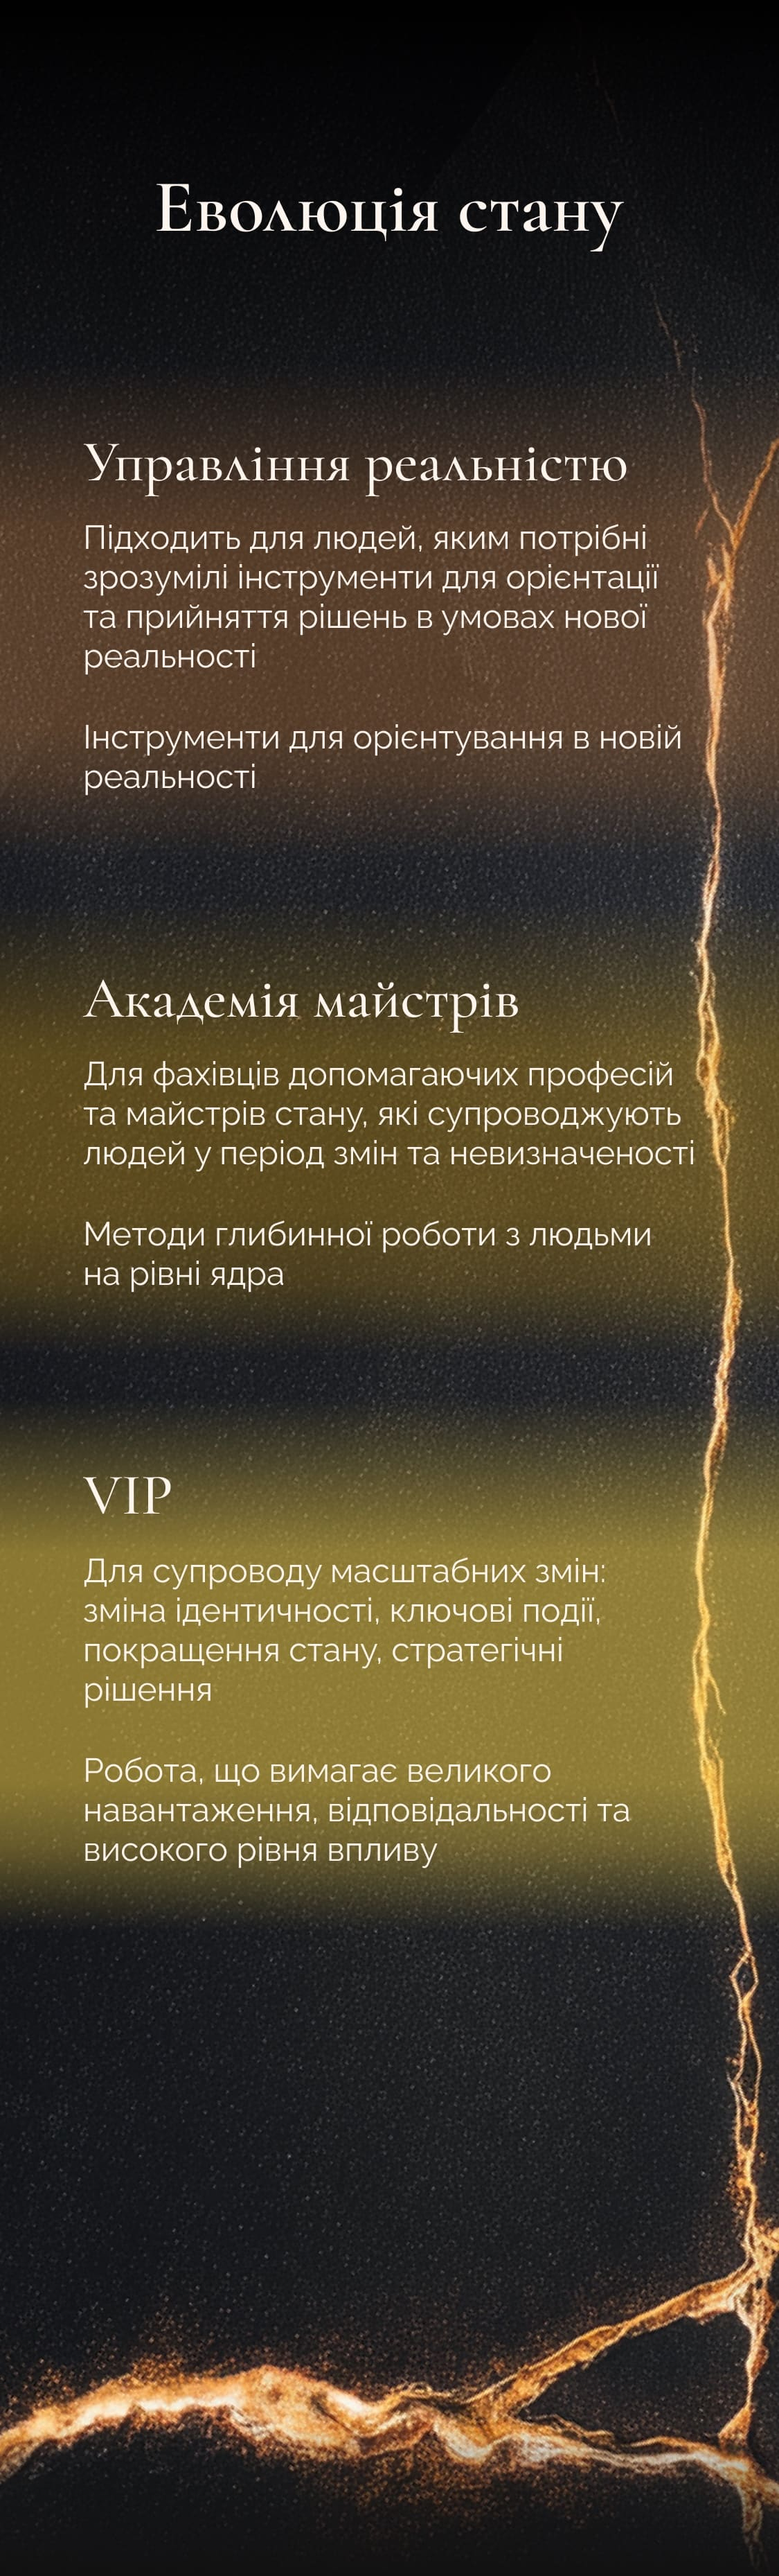
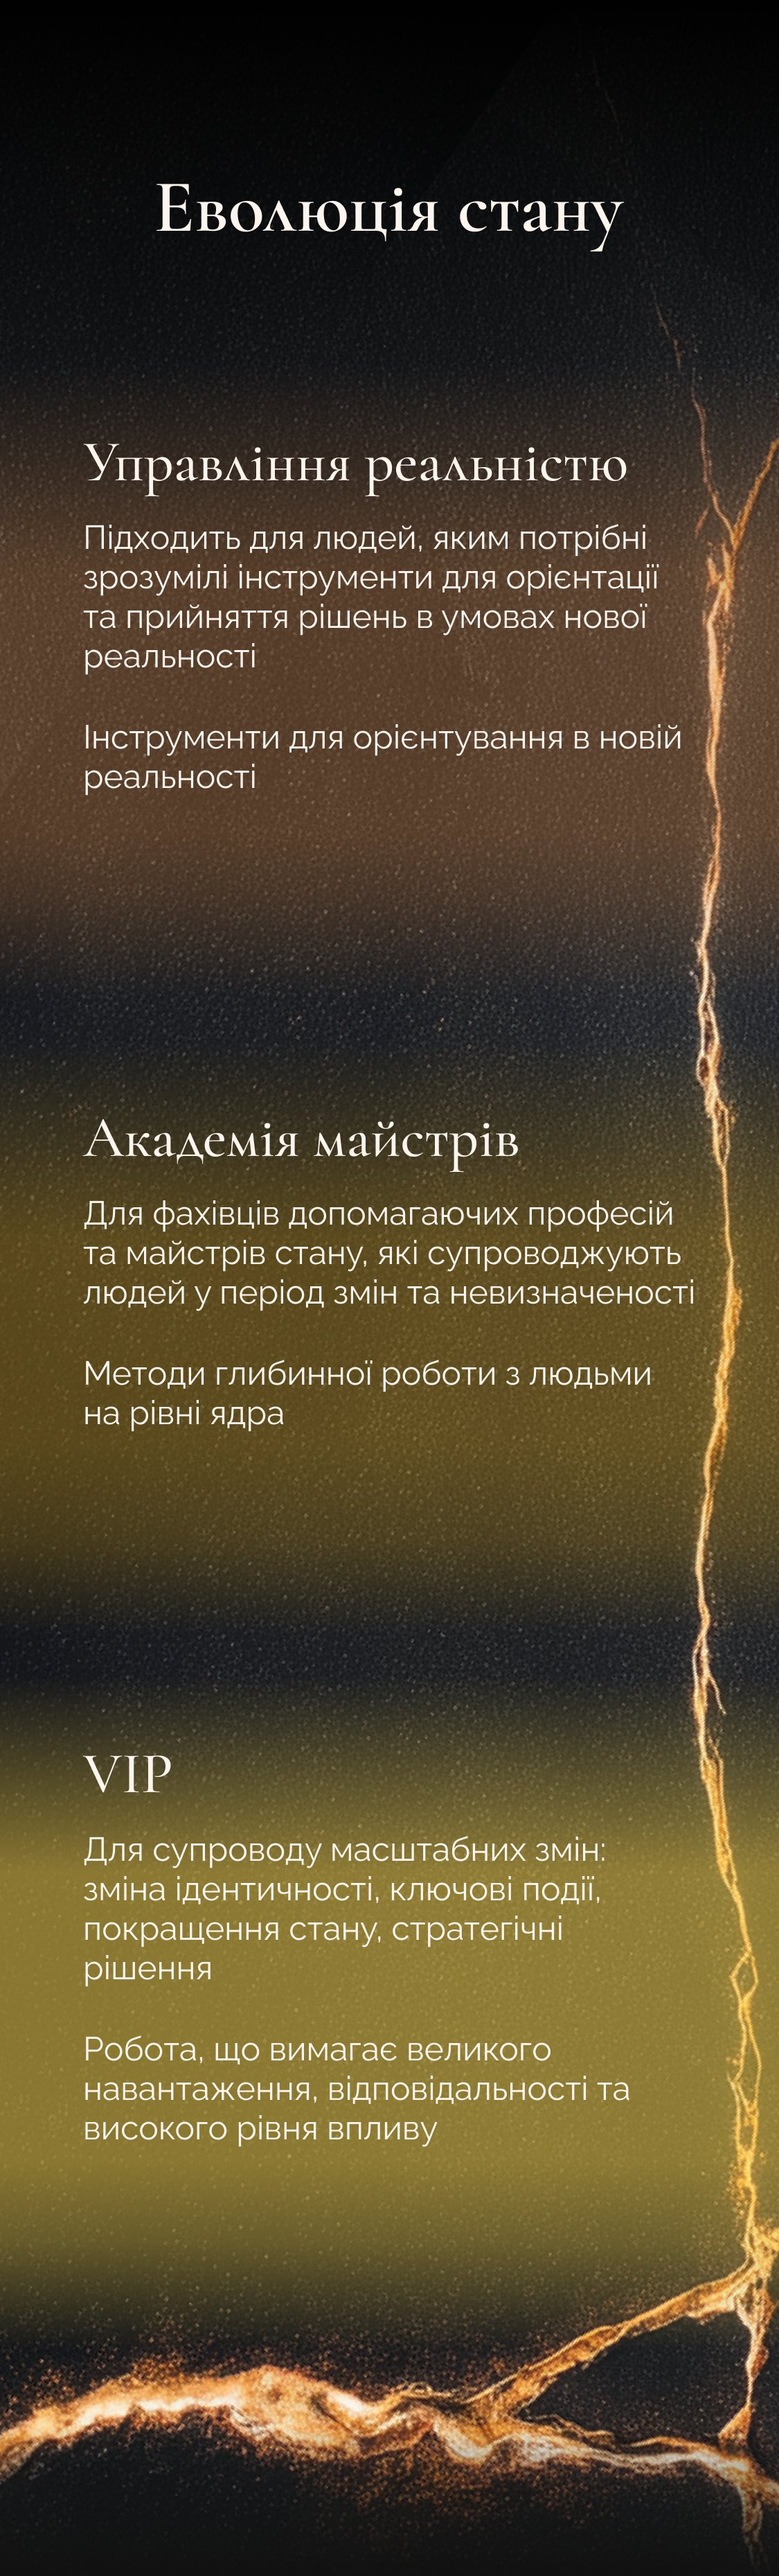
S11 mobile: clean per-language bg + overlay buttons (no overlap) (#18)
Fixes the mobile S11 bug where "Перейти" buttons were overlapping
card description text (and stacking double at the bottom card),
because the old s11.jpg had baked-in pill backgrounds that the CSS
overlay positions no longer matched.

- Swap mobile s11 bgs (ru/en/ua) to clean versions without baked pills
- Use lang-specific button PNGs from /buttons/{lang}/mobile/s11.png
- Reposition .s11-btn-{1,2,3} per language (RU/UA/EN paragraph
  lengths differ → buttons anchor to last line of each card)
- Add .s11-lang-{lang} class to scope per-language overrides

diff --git a/src/components/ProgramsSection.tsx b/src/components/ProgramsSection.tsx
@@ -2,13 +2,15 @@
 import Image from "next/image";
 import { useTranslation } from '@/components/LanguageProvider';
 import SeoText from '@/components/SeoText';
-import { bgDesktop, bgMobile, btnDesktop } from '@/lib/imagePaths';
+import { bgDesktop, bgMobile, btnDesktop, btnMobile } from '@/lib/imagePaths';
+
+const CTA_HREF = 'https://t.me/medvedieva_anna';
 
 export default function ProgramsSection() {
   const { lang } = useTranslation();
 
   return (
-    <section id="s11" className="section">
+    <section id="s11" className={`section s11-lang-${lang}`}>
       <SeoText section="s11" />
       <div className="s10-bg desktop-only">
         <Image src={bgDesktop(11, lang)} alt="" fill style={{ objectFit: "cover", objectPosition: "center center" }} quality={90} />
@@ -16,14 +18,17 @@ export default function ProgramsSection() {
       <div className="s10-bg mobile-only">
         <Image src={bgMobile(11, lang)} alt="" fill style={{ objectFit: "cover", objectPosition: "center top" }} quality={90} />
       </div>
-      <a href="https://t.me/medvedieva_anna" target="_blank" rel="noopener noreferrer" className="s11-btn-overlay s11-btn-1">
-        <img src={btnDesktop(11, lang)} alt="" draggable={false} />
+      <a href={CTA_HREF} target="_blank" rel="noopener noreferrer" className="s11-btn-overlay s11-btn-1" aria-label="Reality Management">
+        <img className="desktop-only" src={btnDesktop(11, lang)} alt="" draggable={false} />
+        <img className="mobile-only"  src={btnMobile(11, lang)}  alt="" draggable={false} />
       </a>
-      <a href="https://t.me/medvedieva_anna" target="_blank" rel="noopener noreferrer" className="s11-btn-overlay s11-btn-2">
-        <img src={btnDesktop(11, lang)} alt="" draggable={false} />
+      <a href={CTA_HREF} target="_blank" rel="noopener noreferrer" className="s11-btn-overlay s11-btn-2" aria-label="Masters Academy">
+        <img className="desktop-only" src={btnDesktop(11, lang)} alt="" draggable={false} />
+        <img className="mobile-only"  src={btnMobile(11, lang)}  alt="" draggable={false} />
       </a>
-      <a href="https://t.me/medvedieva_anna" target="_blank" rel="noopener noreferrer" className="s11-btn-overlay s11-btn-3">
-        <img src={btnDesktop(11, lang)} alt="" draggable={false} />
+      <a href={CTA_HREF} target="_blank" rel="noopener noreferrer" className="s11-btn-overlay s11-btn-3" aria-label="VIP">
+        <img className="desktop-only" src={btnDesktop(11, lang)} alt="" draggable={false} />
+        <img className="mobile-only"  src={btnMobile(11, lang)}  alt="" draggable={false} />
       </a>
     </section>
   );

diff --git a/src/app/globals.css b/src/app/globals.css
@@ -1013,22 +1013,43 @@ img.desktop-only { display: block !important; }
   .s7-btn-about { bottom: 10.5%; }
   .s7-btn-consult { bottom: 3.8%; }
 
-  /* S11 mobile | ref: 11.png (375×1239) — stacked full-width.
-     Card text in the JPG ends at 30.6% / 51.9% / 75.1% from top;
-     buttons sit in the dark gap just below each card. */
-  /* Button positions tuned against `референс перейти блок.png` (1125×3717).
-     The reference bakes visible rounded "Перейти" pills into the art at
-     approximately 26.6% / 54.9% / 87.3% from top. Hit zones sit centered
-     on those pills with a 6% height for a generous tap target. */
+  /* S11 mobile | clean per-language bg without baked "Перейти" pills.
+     Three button PNG overlays from /images/buttons/{lang}/mobile/s11.png
+     are placed at exactly 295×47px on top of each card. Horizontally
+     centered via negative margin (avoids the `transform` slot, which is
+     owned by the scroll-reveal `btnReveal` animation). Vertical bottom %
+     anchors each on its card. */
   .s11-btn-overlay {
-    left: 6.7% !important;
-    width: 86.7% !important;
-    height: 6%;
+    left: 50% !important;
+    margin-left: -147.5px !important;
+    width: 295px !important;
+    height: 47px !important;
     aspect-ratio: auto !important;
+    padding: 0;
+    border: none;
+    background: transparent;
+    border-radius: 10px;
+    overflow: hidden;
+    opacity: 1;
+    animation: none !important;
   }
-  .s11-btn-1 { bottom: 70%; }
-  .s11-btn-2 { bottom: 42%; }
-  .s11-btn-3 { bottom: 10%; }
+  .s11-btn-overlay::before { display: none !important; }
+  .s11-btn-overlay > img.mobile-only {
+    width: 100% !important;
+    height: 100% !important;
+    object-fit: contain !important;
+    display: block;
+  }
+  /* Button positions — each button sits ~20px below the last text line of
+     its card. Per-language because RU/UA/EN paragraph lengths differ. */
+  .s11-btn-1 { bottom: 63.87%; }
+  .s11-btn-2 { bottom: 37.48%; }
+  .s11-btn-3 { bottom: 9.74%; }
+  .s11-lang-ua .s11-btn-2 { bottom: 39.04% !important; }
+  .s11-lang-ua .s11-btn-3 { bottom: 11.30% !important; }
+  .s11-lang-en .s11-btn-1 { bottom: 66.21% !important; }
+  .s11-lang-en .s11-btn-2 { bottom: 43.29% !important; }
+  .s11-lang-en .s11-btn-3 { bottom: 16.84% !important; }
 
   /* S12 mobile | ref: подвал моб версия референс.png (1125×1800).
      Footer background IS the reference image — book card, social icons,

diff --git a/src/lib/imagePaths.ts b/src/lib/imagePaths.ts
@@ -2,7 +2,7 @@ import type { Lang } from './translations';
 
 // Bump this when replacing image assets to force browser cache refresh.
 // Format: YYYYMMDD-sequence
-const ASSET_VERSION = '20260423-s1-lang';
+const ASSET_VERSION = '20260425-s11-mobile-fix';
 const v = (p: string) => `${p}?v=${ASSET_VERSION}`;
 
 // Fallback order: use dedicated folder if exists, else fall back to RU (default).
